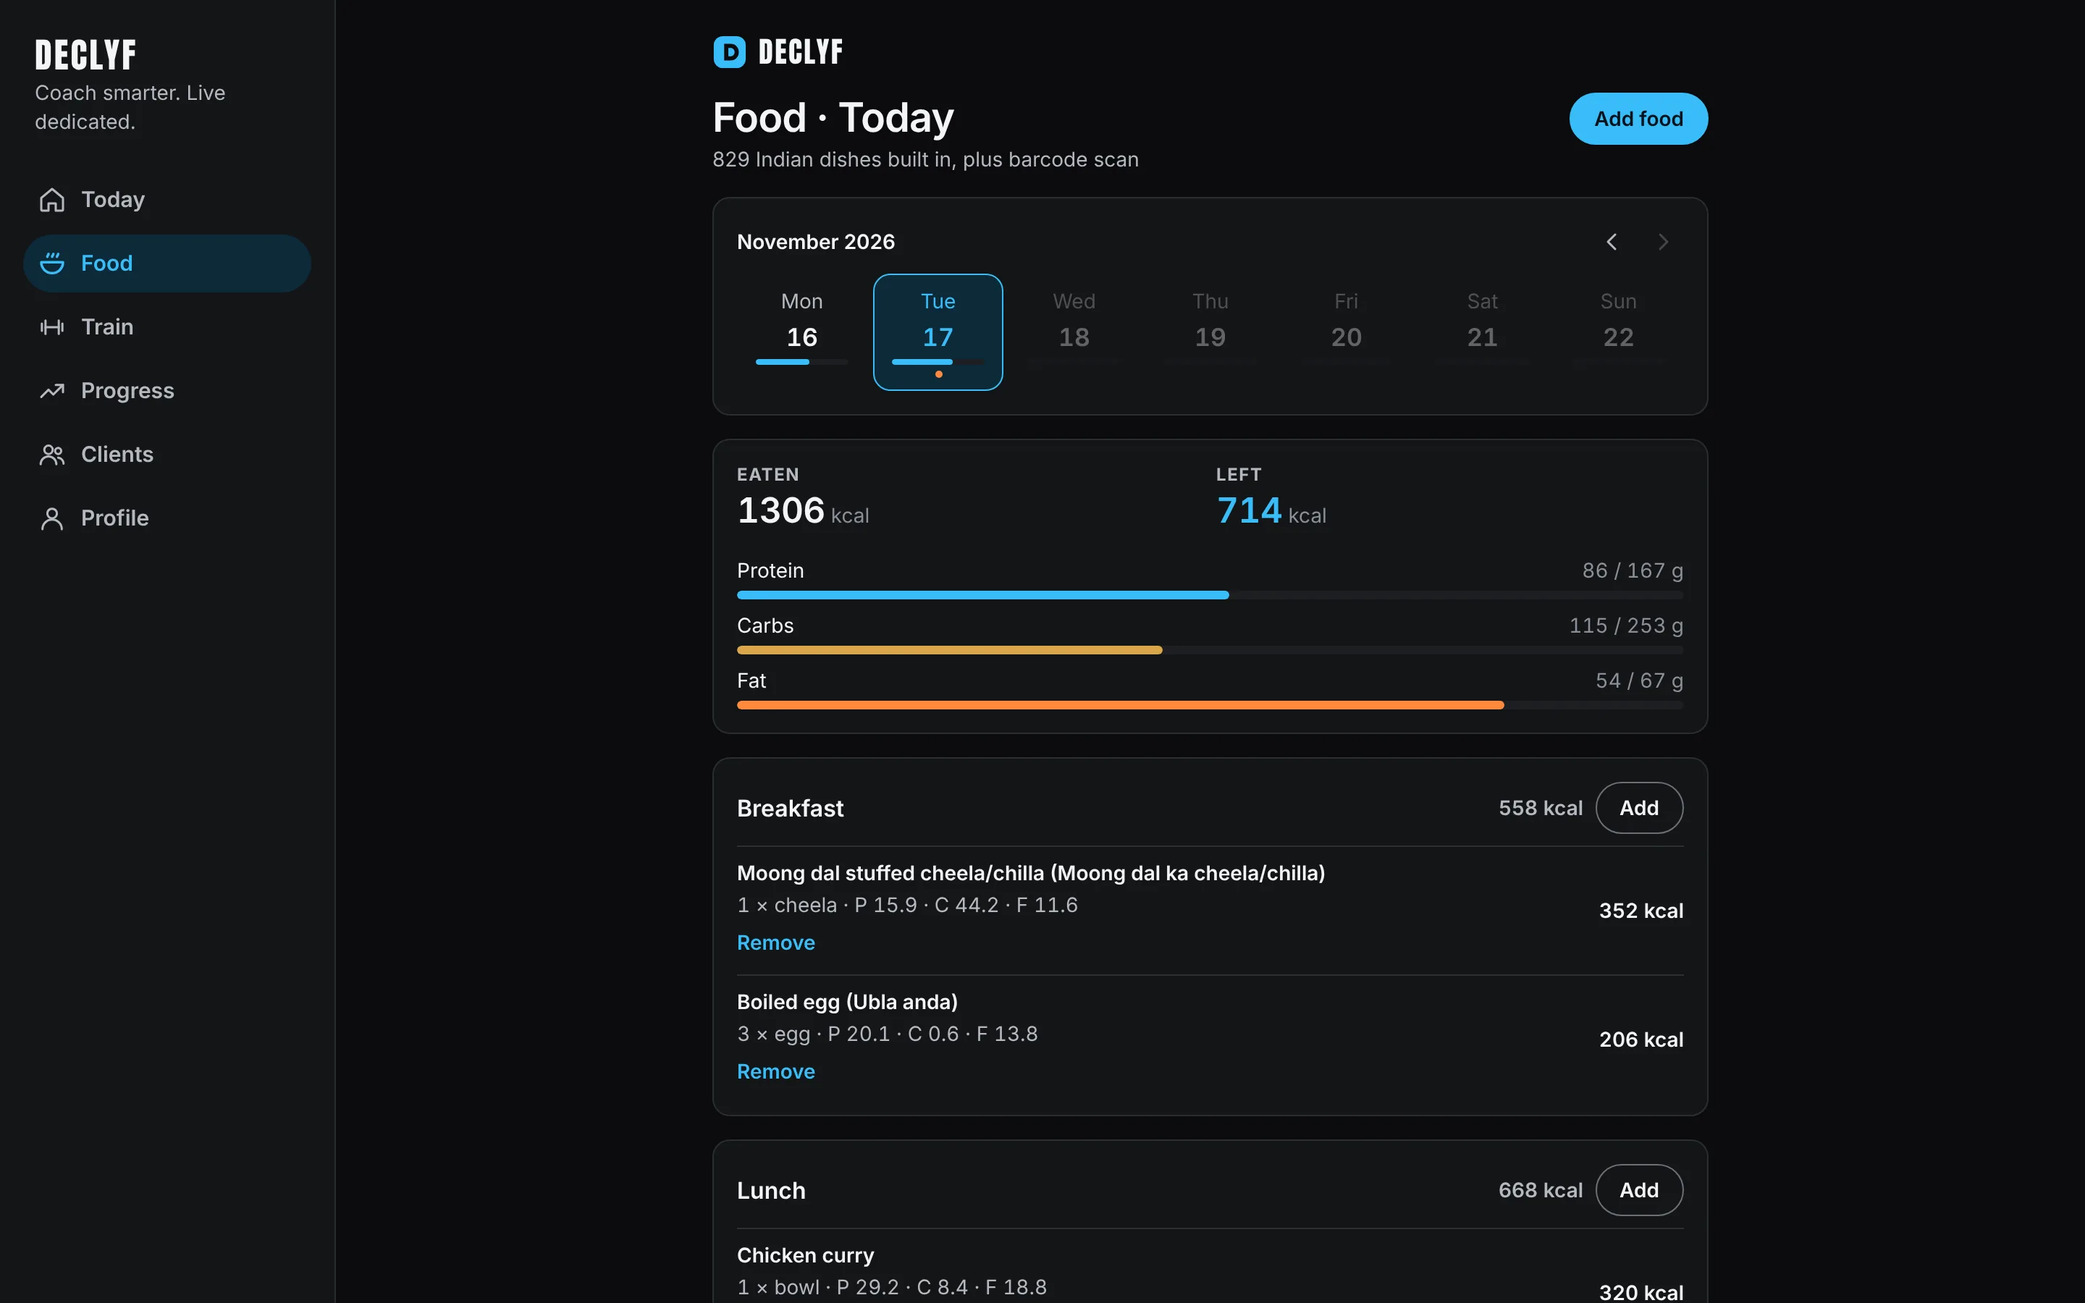
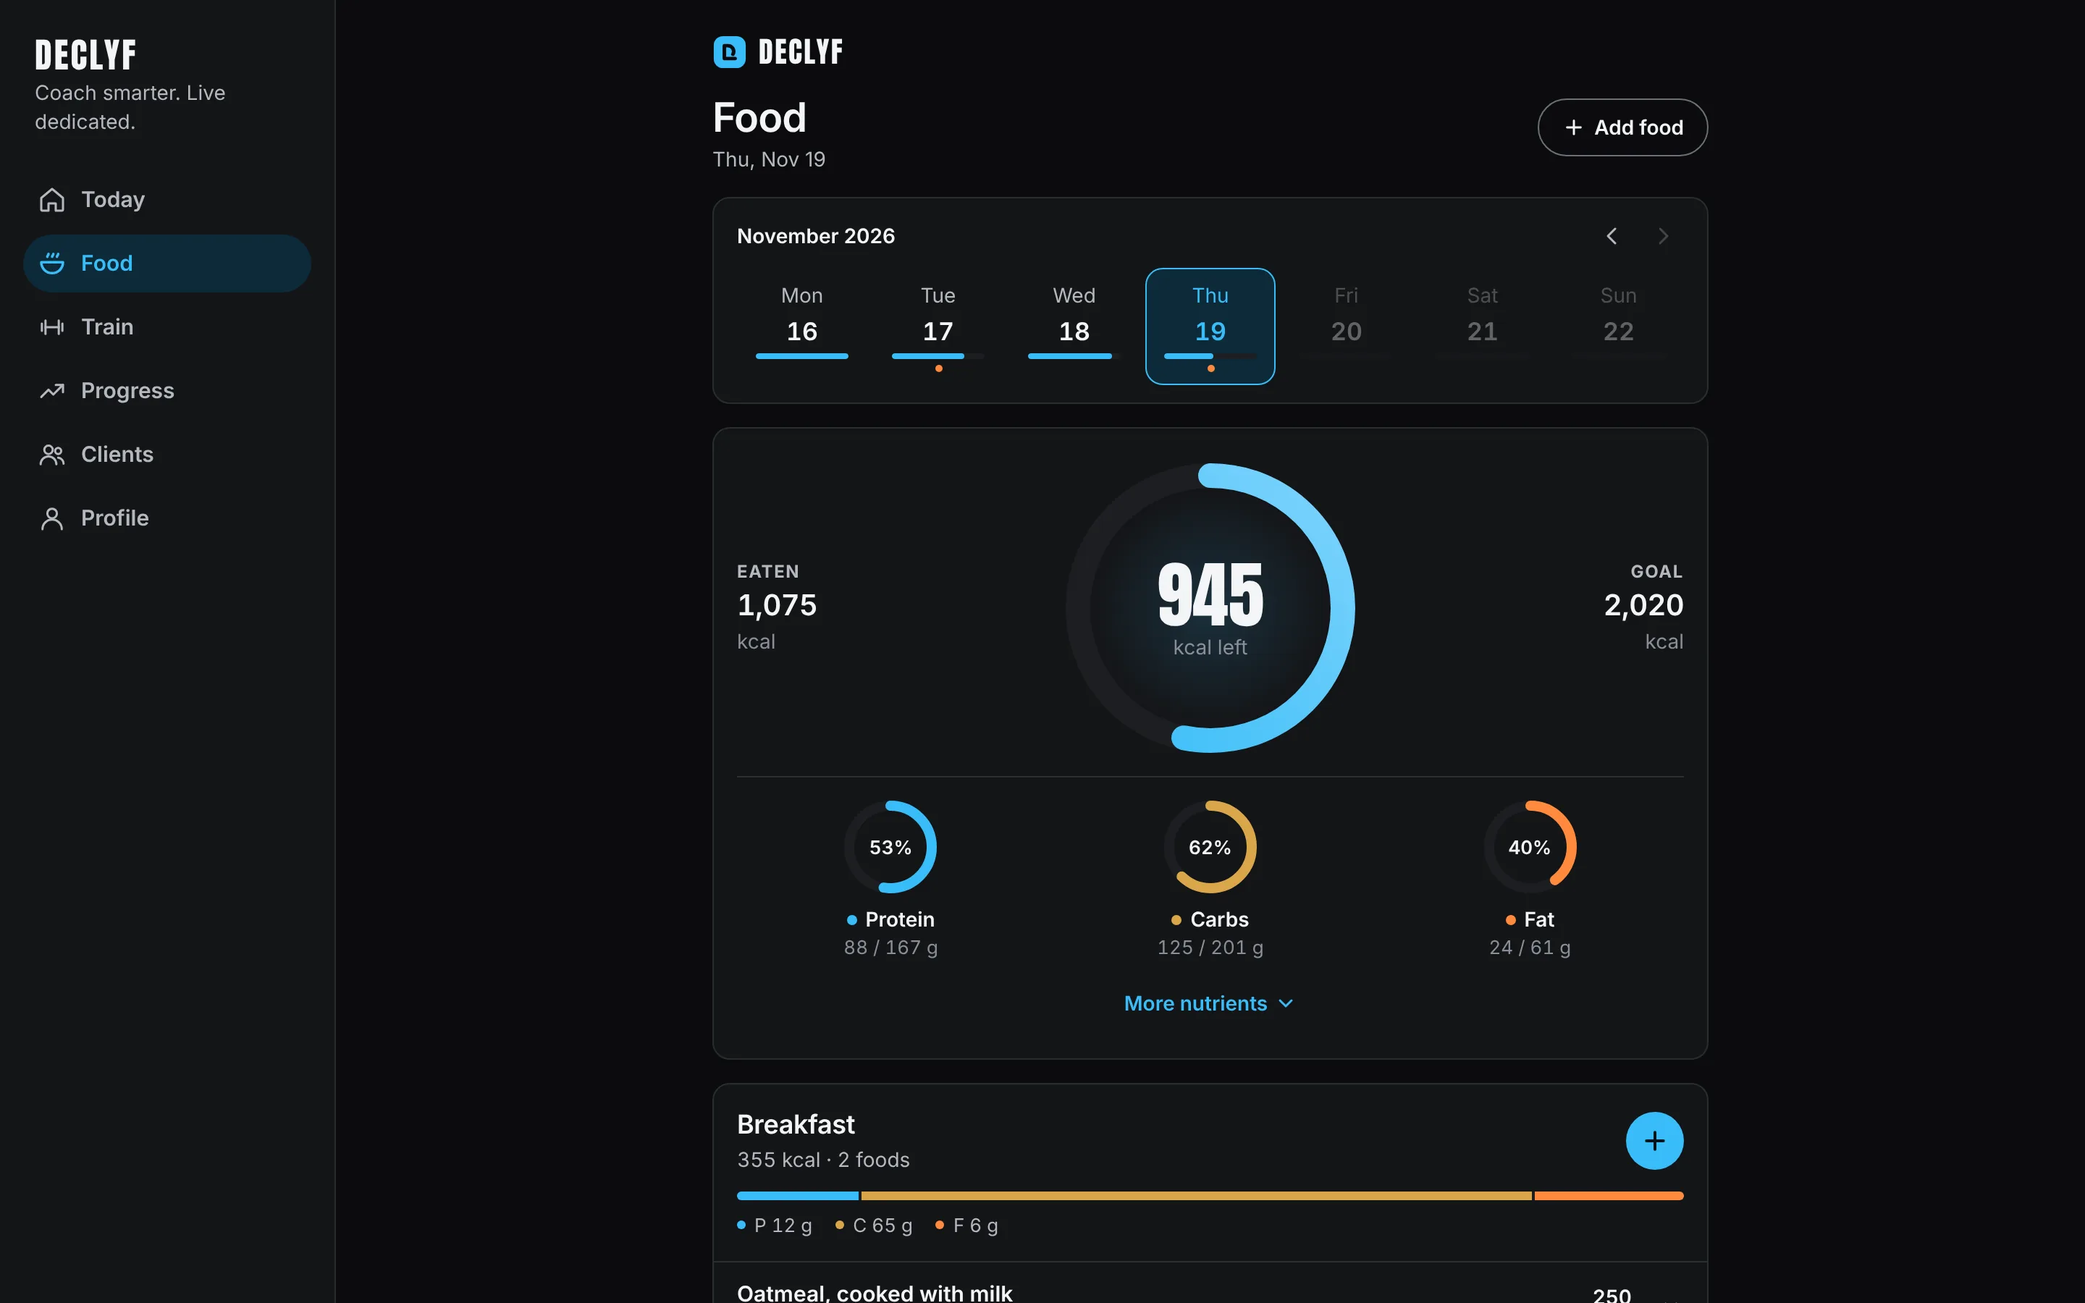
New app screenshots, global food examples, up-to-date counts
Claude-Session: https://claude.ai/code/session_01YBRURYhZg6q6xNsPAic4b8

diff --git a/index.html b/index.html
@@ -525,9 +525,9 @@ footer{padding:56px 0 48px;border-top:1px solid var(--nhair)}
       <div class="car" id="car" role="region" aria-roledescription="carousel" aria-label="App screens. Drag, or use the left and right arrow keys, to turn." tabindex="0">
         <div class="car-glow" aria-hidden="true"></div>
         <div class="car-ring" id="ring">
-          <div class="phone cp" data-name="Today" role="group" aria-roledescription="slide" aria-label="Today, 1 of 6"><div class="screen"><img src="img/today-dark.webp" width="1170" height="2532" fetchpriority="high" draggable="false" alt="DECLYF Today screen: 714 kcal left of a 2020 kcal goal, with protein, carbs and fat bars"><span class="shade"></span></div></div>
+          <div class="phone cp" data-name="Today" role="group" aria-roledescription="slide" aria-label="Today, 1 of 6"><div class="screen"><img src="img/today-dark.webp" width="1170" height="2532" fetchpriority="high" draggable="false" alt="DECLYF Today screen: 945 kcal left of a 2020 kcal goal, with protein, carbs and fat bars"><span class="shade"></span></div></div>
           <div class="phone cp" data-name="Food" role="group" aria-roledescription="slide" aria-label="Food, 2 of 6"><div class="screen"><img src="img/food-dark.webp" width="1170" height="2532" draggable="false" alt="DECLYF Food screen: today's breakfast and lunch logged with calories and macros"><span class="shade"></span></div></div>
-          <div class="phone cp" data-name="Train" role="group" aria-roledescription="slide" aria-label="Train, 3 of 6"><div class="screen"><img src="img/train-dark.webp" width="1170" height="2532" loading="lazy" draggable="false" alt="DECLYF Train screen: the plan for Tuesday with weights and reps, 3 of 4 exercises done"><span class="shade"></span></div></div>
+          <div class="phone cp" data-name="Train" role="group" aria-roledescription="slide" aria-label="Train, 3 of 6"><div class="screen"><img src="img/train-dark.webp" width="1170" height="2532" loading="lazy" draggable="false" alt="DECLYF Train screen: Thursday's plan for quads and hamstrings, with weights and reps for each set"><span class="shade"></span></div></div>
           <div class="phone cp" data-name="Progress" role="group" aria-roledescription="slide" aria-label="Progress, 4 of 6"><div class="screen"><img src="img/progress-dark.webp" width="1170" height="2532" loading="lazy" draggable="false" alt="DECLYF Progress screen: weight journey from 86.5 kg to 81.8 kg with averages for 90 days"><span class="shade"></span></div></div>
           <div class="phone cp" data-name="Clients" role="group" aria-roledescription="slide" aria-label="Clients, 5 of 6"><div class="screen"><img src="img/clients-dark.webp" width="1170" height="2532" loading="lazy" draggable="false" alt="Coach client list with demo clients marked on track, slipping or needs a nudge"><span class="shade"></span></div></div>
           <div class="phone cp" data-name="Client" role="group" aria-roledescription="slide" aria-label="Client, 6 of 6"><div class="screen"><img src="img/client-dark.webp" width="1170" height="2532" draggable="false" alt="Client detail for a demo client: 6 of 7 days logged, 5 day streak, 1921 kcal average"><span class="shade"></span></div></div>
@@ -557,16 +557,16 @@ footer{padding:56px 0 48px;border-top:1px solid var(--nhair)}
   <div class="show-stack">
     <div class="sc-track" id="scTrack" role="list" aria-label="App screens" data-lenis-prevent-horizontal>
       <article class="slide" role="listitem">
-        <div class="phone"><div class="screen"><img src="img/today-light.webp" width="1170" height="2532" loading="lazy" alt="Today screen in light theme: calorie ring with 714 kcal left"></div></div>
-        <div class="sl-copy"><p class="step-n">Today</p><h3>The day in one ring.</h3><p>1306 of 2020 kcal eaten. 81 g protein to go.</p></div>
+        <div class="phone"><div class="screen"><img src="img/today-light.webp" width="1170" height="2532" loading="lazy" alt="Today screen in light theme: calorie ring with 945 kcal left"></div></div>
+        <div class="sl-copy"><p class="step-n">Today</p><h3>The day in one ring.</h3><p>1075 of 2020 kcal eaten. 79 g protein to go.</p></div>
       </article>
       <article class="slide" role="listitem">
         <div class="phone"><div class="screen"><img src="img/food-light.webp" width="1170" height="2532" loading="lazy" alt="Food screen in light theme: meals logged with calories and macros per item"></div></div>
-        <div class="sl-copy"><p class="step-n">Food</p><h3>Log a meal in seconds.</h3><p>7,000+ foods built in, millions more online, plus barcode scan.</p></div>
+        <div class="sl-copy"><p class="step-n">Food</p><h3>Log a meal in seconds.</h3><p>17,000+ foods built in, millions more online, plus barcode scan.</p></div>
       </article>
       <article class="slide" role="listitem">
-        <div class="phone"><div class="screen"><img src="img/train-light.webp" width="1170" height="2532" loading="lazy" alt="Train screen in light theme: Tuesday plan, 3 of 4 exercises done with weights and reps"></div></div>
-        <div class="sl-copy"><p class="step-n">Train</p><h3>Plan the week. Tick each set.</h3><p>Weights and reps, set by set. 3 of 4 done.</p></div>
+        <div class="phone"><div class="screen"><img src="img/train-light.webp" width="1170" height="2532" loading="lazy" alt="Train screen in light theme: Thursday leg plan with weights and reps for each set"></div></div>
+        <div class="sl-copy"><p class="step-n">Train</p><h3>Plan the week. Tick each set.</h3><p>Weights and reps, set by set. Last time shown for each lift.</p></div>
       </article>
       <article class="slide" role="listitem">
         <div class="phone"><div class="screen"><img src="img/progress2-light.webp" width="1170" height="2532" loading="lazy" alt="Progress screen in light theme: calories per day and a falling weight line"></div></div>
@@ -600,9 +600,9 @@ footer{padding:56px 0 48px;border-top:1px solid var(--nhair)}
               <span class="trk-knob" aria-hidden="true"></span>
             </div>
             <div class="panes">
-            <div class="pane on"><p class="step-n">Today</p><h3>The day in one ring.</h3><p>Calories left, protein, carbs and fat against the targets you set. <span class="num tnum">1306</span> of <span class="num tnum">2020</span> kcal eaten. <span class="num tnum">81 g</span> protein to go.</p></div>
-            <div class="pane"><p class="step-n">Food</p><h3>Log a meal in seconds.</h3><p><span class="num tnum">7,000+</span> foods built in, plus millions of packaged products from Open Food Facts, USDA and barcode scan. Every meal adds up as you go.</p></div>
-            <div class="pane"><p class="step-n">Train</p><h3>Plan the week. Tick each set.</h3><p>Weights and reps, set by set, against the plan for the day. <span class="num tnum">3 of 4</span> done, one to go.</p></div>
+            <div class="pane on"><p class="step-n">Today</p><h3>The day in one ring.</h3><p>Calories left, protein, carbs and fat against the targets you set. <span class="num tnum">1075</span> of <span class="num tnum">2020</span> kcal eaten. <span class="num tnum">79 g</span> protein to go.</p></div>
+            <div class="pane"><p class="step-n">Food</p><h3>Log a meal in seconds.</h3><p><span class="num tnum">17,000+</span> foods built in from the US, UK, Australia, Canada and France, plus millions of packaged products from Open Food Facts, USDA and barcode scan. Every meal adds up as you go.</p></div>
+            <div class="pane"><p class="step-n">Train</p><h3>Plan the week. Tick each set.</h3><p>Weights and reps, set by set, against the plan for the day, with what you lifted last time beside each one.</p></div>
             <div class="pane"><p class="step-n">Progress</p><h3>See the trend, not the noise.</h3><p>Calories per day and weight over 90 days. <span class="num tnum">86.5</span> to <span class="num tnum">81.8 kg</span> since September.</p></div>
           </div>
           </div>
@@ -610,9 +610,9 @@ footer{padding:56px 0 48px;border-top:1px solid var(--nhair)}
         </div>
         <div class="pin-phone">
           <div class="phone"><div class="screen">
-            <img class="on" src="img/today-light.webp" width="1170" height="2532" loading="lazy" alt="Today screen in light theme: calorie ring with 714 kcal left">
+            <img class="on" src="img/today-light.webp" width="1170" height="2532" loading="lazy" alt="Today screen in light theme: calorie ring with 945 kcal left">
             <img src="img/food-light.webp" width="1170" height="2532" loading="lazy" alt="Food screen in light theme: meals logged with calories and macros per item">
-            <img src="img/train-light.webp" width="1170" height="2532" loading="lazy" alt="Train screen in light theme: Tuesday plan, 3 of 4 exercises done with weights and reps">
+            <img src="img/train-light.webp" width="1170" height="2532" loading="lazy" alt="Train screen in light theme: Thursday leg plan with weights and reps for each set">
             <img src="img/progress2-light.webp" width="1170" height="2532" loading="lazy" alt="Progress screen in light theme: calories per day and a falling weight line">
           </div></div>
         </div>
@@ -631,7 +631,7 @@ footer{padding:56px 0 48px;border-top:1px solid var(--nhair)}
   <div class="fan" id="fan" role="region" aria-roledescription="carousel" aria-label="Coach screens. Drag, or use the left and right arrow keys, to turn." tabindex="0">
     <div class="fan-glow" aria-hidden="true"><i class="g1"></i><i class="g2"></i></div>
     <div class="phone f-c" data-name="Clients" role="group" aria-roledescription="slide" aria-label="Clients, 1 of 3"><div class="screen"><img src="img/clients-dark.webp" width="1170" height="2532" loading="lazy" draggable="false" alt="Coach client list with demo clients marked on track, slipping or needs a nudge"><span class="cl-fx" aria-hidden="true"><i class="cl-bar" style="--y:138;--k:0"></i><i class="cl-bar" style="--y:334;--k:1"></i><i class="cl-bar" style="--y:530;--k:2"></i><i class="cl-bar" style="--y:726;--k:3"></i><i class="cl-dot" style="--x:289.5;--y:94;--c:#38BDF8;--k:0"></i><i class="cl-dot" style="--x:292.5;--y:290;--c:#D9A64A;--k:1"></i><i class="cl-dot" style="--x:289.5;--y:486;--c:#38BDF8;--k:2"></i><i class="cl-dot" style="--x:245.5;--y:682;--c:#FF8A3D;--k:3"></i></span></div></div>
-    <div class="phone f-r" data-name="Today" role="group" aria-roledescription="slide" aria-label="Today, 2 of 3"><div class="screen"><img src="img/today-dark.webp" width="1170" height="2532" loading="lazy" draggable="false" alt="Today screen: 714 kcal left of a 2020 kcal goal, with protein, carbs and fat bars"></div></div>
+    <div class="phone f-r" data-name="Today" role="group" aria-roledescription="slide" aria-label="Today, 2 of 3"><div class="screen"><img src="img/today-dark.webp" width="1170" height="2532" loading="lazy" draggable="false" alt="Today screen: 945 kcal left of a 2020 kcal goal, with protein, carbs and fat bars"></div></div>
     <div class="phone f-l" data-name="Client" role="group" aria-roledescription="slide" aria-label="Client, 3 of 3"><div class="screen"><img src="img/client-dark.webp" width="1170" height="2532" loading="lazy" draggable="false" alt="Client detail for a demo client: 6 of 7 days logged, 5 day streak, 1921 kcal average"></div></div>
   </div>
   <div class="fan-ctl" id="fanCtl">
@@ -669,15 +669,15 @@ footer{padding:56px 0 48px;border-top:1px solid var(--nhair)}
       </div>
     </div>
     <div class="media reveal">
-      <div class="phone"><div class="screen"><img src="img/search-light.webp" width="1170" height="2532" loading="lazy" alt="Add food search for paneer showing paneer dishes with calories per serving"></div></div>
+      <div class="phone"><div class="screen"><img src="img/search-light.webp" width="1170" height="2532" loading="lazy" alt="Add food search for greek yogurt showing results from the US and UK with calories per serving"></div></div>
     </div>
   </div>
   <div class="marquee" id="mq" aria-label="Examples from the bundled food library">
     <div class="mq-row" aria-hidden="true">
-      <span>Poha, bowl <em>161 kcal</em></span><span>Masala dosa <em>345 kcal</em></span><span>Dhokla, piece <em>86 kcal</em></span><span>Dal makhani, bowl <em>262 kcal</em></span><span>Chicken curry, bowl <em>320 kcal</em></span><span>Chapati <em>73 kcal</em></span><span>Idli <em>35 kcal</em></span><span>Paneer tikka, plate <em>412 kcal</em></span><span>Sambar, bowl <em>249 kcal</em></span><span>Rajmah curry, bowl <em>172 kcal</em></span><span>Vegetable biryani, plate <em>526 kcal</em></span><span>Boiled egg <em>69 kcal</em></span><span>Kadhai paneer, bowl <em>344 kcal</em></span><span>Plain dosa <em>138 kcal</em></span>
-      <span>Poha, bowl <em>161 kcal</em></span><span>Masala dosa <em>345 kcal</em></span><span>Dhokla, piece <em>86 kcal</em></span><span>Dal makhani, bowl <em>262 kcal</em></span><span>Chicken curry, bowl <em>320 kcal</em></span><span>Chapati <em>73 kcal</em></span><span>Idli <em>35 kcal</em></span><span>Paneer tikka, plate <em>412 kcal</em></span><span>Sambar, bowl <em>249 kcal</em></span><span>Rajmah curry, bowl <em>172 kcal</em></span><span>Vegetable biryani, plate <em>526 kcal</em></span><span>Boiled egg <em>69 kcal</em></span><span>Kadhai paneer, bowl <em>344 kcal</em></span><span>Plain dosa <em>138 kcal</em></span>
+      <span>Greek yogurt, cup <em>134 kcal</em></span><span>Oatmeal with milk, bowl <em>250 kcal</em></span><span>Banana <em>105 kcal</em></span><span>Scrambled eggs, 2 <em>182 kcal</em></span><span>Grilled chicken, 150 g <em>248 kcal</em></span><span>Brown rice, cup <em>218 kcal</em></span><span>Salmon fillet, 150 g <em>309 kcal</em></span><span>Sweet potato <em>135 kcal</em></span><span>Turkey avocado wrap <em>430 kcal</em></span><span>Beef chili, bowl <em>390 kcal</em></span><span>Chicken curry, bowl <em>320 kcal</em></span><span>Pasta with tomato sauce <em>420 kcal</em></span><span>Almonds, 28 g <em>164 kcal</em></span><span>Protein shake <em>120 kcal</em></span>
+      <span>Greek yogurt, cup <em>134 kcal</em></span><span>Oatmeal with milk, bowl <em>250 kcal</em></span><span>Banana <em>105 kcal</em></span><span>Scrambled eggs, 2 <em>182 kcal</em></span><span>Grilled chicken, 150 g <em>248 kcal</em></span><span>Brown rice, cup <em>218 kcal</em></span><span>Salmon fillet, 150 g <em>309 kcal</em></span><span>Sweet potato <em>135 kcal</em></span><span>Turkey avocado wrap <em>430 kcal</em></span><span>Beef chili, bowl <em>390 kcal</em></span><span>Chicken curry, bowl <em>320 kcal</em></span><span>Pasta with tomato sauce <em>420 kcal</em></span><span>Almonds, 28 g <em>164 kcal</em></span><span>Protein shake <em>120 kcal</em></span>
     </div>
-    <p class="sr">Examples: poha 161 kcal a bowl, masala dosa 345 kcal, chicken curry 320 kcal a bowl, chapati 73 kcal.</p>
+    <p class="sr">Examples: greek yogurt 134 kcal a cup, grilled chicken 248 kcal for 150 g, salmon fillet 309 kcal, brown rice 218 kcal a cup.</p>
   </div>
   <p class="mq-cap">Per serving, from the bundled library.</p>
 </section>
@@ -718,15 +718,15 @@ footer{padding:56px 0 48px;border-top:1px solid var(--nhair)}
       <div class="cell w4 reveal"><div class="tile has-crop">
         <h3>Find any food fast.</h3>
         <p>Search the bundled library first, then Open Food Facts and USDA when you need a brand or a packet.</p>
-        <div class="srcs"><span>7,000+ built-in foods</span><span>Open Food Facts</span><span>USDA</span></div>
-        <div class="crop"><div class="phone"><div class="screen"><img src="img/search-light.webp" width="1170" height="2532" loading="lazy" alt="Food search results for paneer"></div></div></div>
+        <div class="srcs"><span>17,000+ built-in foods</span><span>Open Food Facts</span><span>USDA</span></div>
+        <div class="crop"><div class="phone"><div class="screen"><img src="img/search-light.webp" width="1170" height="2532" loading="lazy" alt="Food search results for greek yogurt"></div></div></div>
       </div></div>
       <div class="cell reveal" style="--d:.06s"><div class="tile">
         <div class="ic" aria-hidden="true"><svg width="22" height="22" viewBox="0 0 24 24" fill="none" stroke="currentColor" stroke-width="1.8" stroke-linecap="round"><path d="M3 7V5a2 2 0 0 1 2-2h2M17 3h2a2 2 0 0 1 2 2v2M21 17v2a2 2 0 0 1-2 2h-2M7 21H5a2 2 0 0 1-2-2v-2M7 8v8M10.5 8v8M14 8v8M17 8v8"/></svg></div>
         <h3>Scan a barcode.</h3><p>Point the camera at a packet. Calories and macros from the label go into the day.</p>
       </div></div>
       <div class="cell reveal" style="--d:.12s"><div class="tile">
-        <div class="big tnum">130+</div>
+        <div class="big tnum">300+</div>
         <h3>Exercises ready to plan.</h3><p>Grouped by muscle, with push, pull and leg day routines. Add your own.</p>
       </div></div>
       <div class="cell w3 reveal"><div class="tile has-crop">
@@ -761,8 +761,8 @@ footer{padding:56px 0 48px;border-top:1px solid var(--nhair)}
       <p class="lede reveal">The numbers behind the app, as it ships today.</p>
     </div>
     <div class="stats">
-      <div class="stat reveal"><div class="v" data-count="7000" data-suffix="+">7,000+</div><p class="l">Foods built in</p></div>
-      <div class="stat reveal" style="--d:.08s"><div class="v" data-count="130" data-suffix="+">130+</div><p class="l">Exercises</p></div>
+      <div class="stat reveal"><div class="v" data-count="17000" data-suffix="+">17,000+</div><p class="l">Foods built in</p></div>
+      <div class="stat reveal" style="--d:.08s"><div class="v" data-count="300" data-suffix="+">300+</div><p class="l">Exercises</p></div>
       <div class="stat reveal" style="--d:.16s"><div class="v" data-count="3">3</div><p class="l">Platforms: Android, iPhone, web</p></div>
       <div class="stat reveal" style="--d:.24s"><div class="v heat">$0</div><p class="l">For clients</p></div>
     </div>
